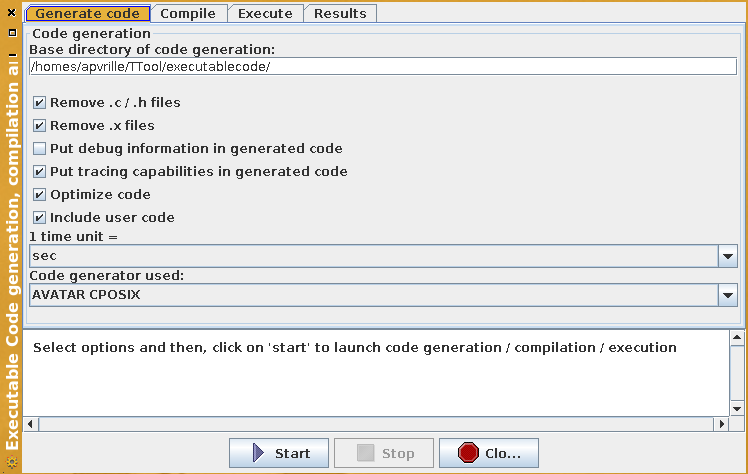
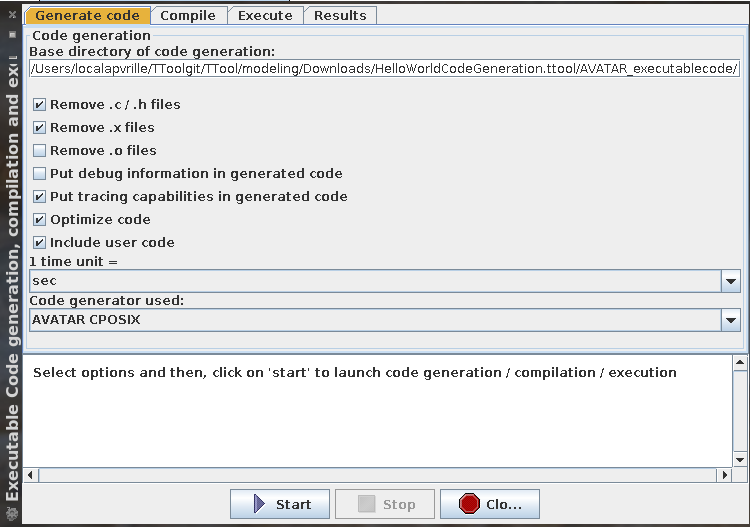
Update on code generation facility

Changed region(s): [[0.0, 0.0, 1.0, 1.0]]

diff --git a/doc/codegeneration/codegeneration_documentation.tex b/doc/codegeneration/codegeneration_documentation.tex
@@ -143,17 +143,18 @@ Open your configuration file, and set the following lines accordingly with your 
 \begin{verbatim}
 <AVATARExecutableCodeDirectory data="../executablecode/" />
 \end{verbatim}
+This configuration works only for models. For TTool project, the default directory is "AVATAR_executablecode" which is automatically created in the sub folder of the project.
 \item Host that is intended to perform the code compilation and execution. Default value is "localhost".
 \begin{verbatim}
 <AVATARExecutableCodeHost data="localhost"/>
 \end{verbatim}
 \item Compilation command to compile the generated code:
 \begin{verbatim}
-<AVATARExecutableCodeCompileCommand data="make -C ../executablecode/" />
+<AVATARExecutableCodeCompileCommand data="make" />
 \end{verbatim}
 \item Execution command. This will start the application generated from your model:
 \begin{verbatim}
-<AVATARExecutableCodeExecuteCommand data="../executablecode/run.x" />
+<AVATARExecutableCodeExecuteCommand data="run.x" />
 \end{verbatim}
 \end{itemize}
 
@@ -209,7 +210,7 @@ Once the code has been generated, the dialog window should automatically switch 
 \item Compile the code for your localhost (\textbf{You should select this option}).
 \item Compile the code for the SoCLib platform. This option is not addressed in this document.
 \end{itemize}
-If the compilation fails, it is probably due to a bad installation of a C compiler. You could also edit the Makefile you have selected (see section \ref{sec:conf}) to adapt it to your localhost particularities.  Note that the compilation process also compiles the Avatar runtime C sources\footnote{These sources are located in TTool/executablecode/src}, and links all resulting object files together.
+If the compilation fails, you can try to remove all old .o files using the first tab of the dialog window: "Generate Code", "Remove .o files". If the compilation still fails, it could be due to a bad installation of a C compiler. We strongly recommend to use the GNU C Compiler (\textit{gcc}). You could also edit the Makefile you have selected (see section \ref{sec:conf}) to adapt it to your localhost particularities.  Note that the compilation process also compiles the Avatar runtime C sources\footnote{These sources are located in: TTool/executablecode/src or in your project directory: AVATAR_executablecode}, and links all resulting object files together.
 
 \begin{figure}[htbp]
 \centering

diff --git a/src/main/java/ui/MainGUI.java b/src/main/java/ui/MainGUI.java
@@ -4639,7 +4639,7 @@ public class MainGUI implements ActionListener, WindowListener, KeyListener, Per
         TraceManager.addDev("Avatar code generation");
         JDialogAvatarExecutableCodeGeneration jgen = new JDialogAvatarExecutableCodeGeneration(frame, this, "Executable Code generation, compilation and execution", ConfigurationTTool.AVATARExecutableCodeHost, SpecConfigTTool.AVATARExecutableCodeDirectory, SpecConfigTTool.AVATARExecutableCodeCompileCommand, SpecConfigTTool.AVATARExecutableCodeExecuteCommand, ConfigurationTTool.AVATARExecutableSoclibCodeCompileCommand, ConfigurationTTool.AVATARExecutableSoclibCodeExecuteCommand, ConfigurationTTool.AVATARExecutableSoclibTraceFile);
         //   jgen.setSize(500, 450);
-        GraphicLib.centerOnParent(jgen, 500, 600);
+        GraphicLib.centerOnParent(jgen, 700, 600);
         jgen.setVisible(true);
         dtree.toBeUpdated();
     }
